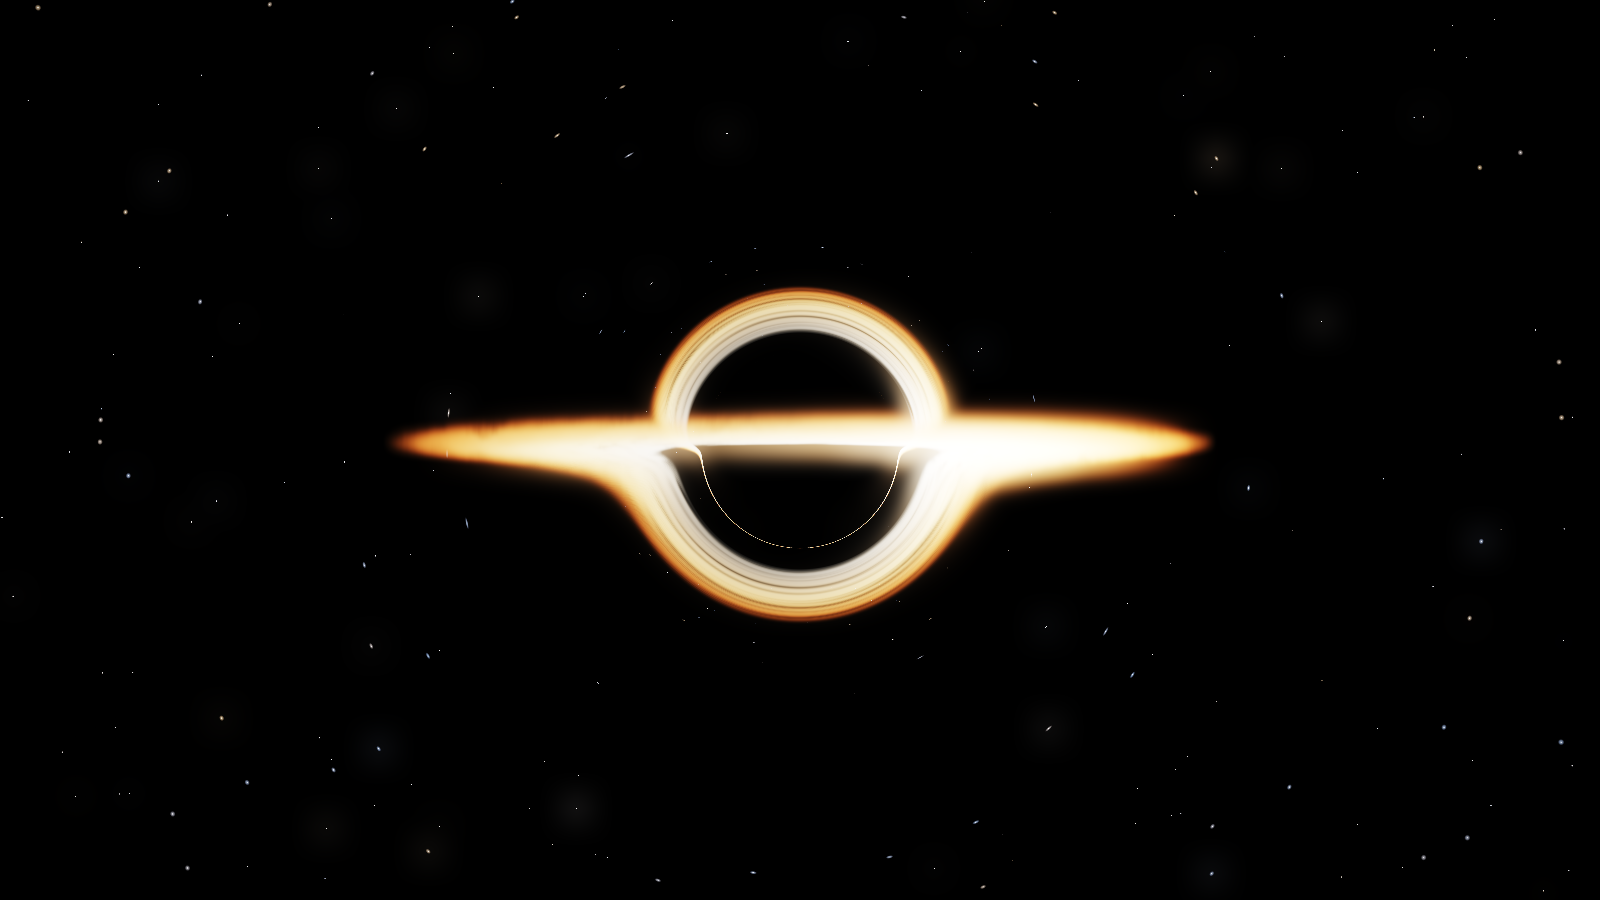
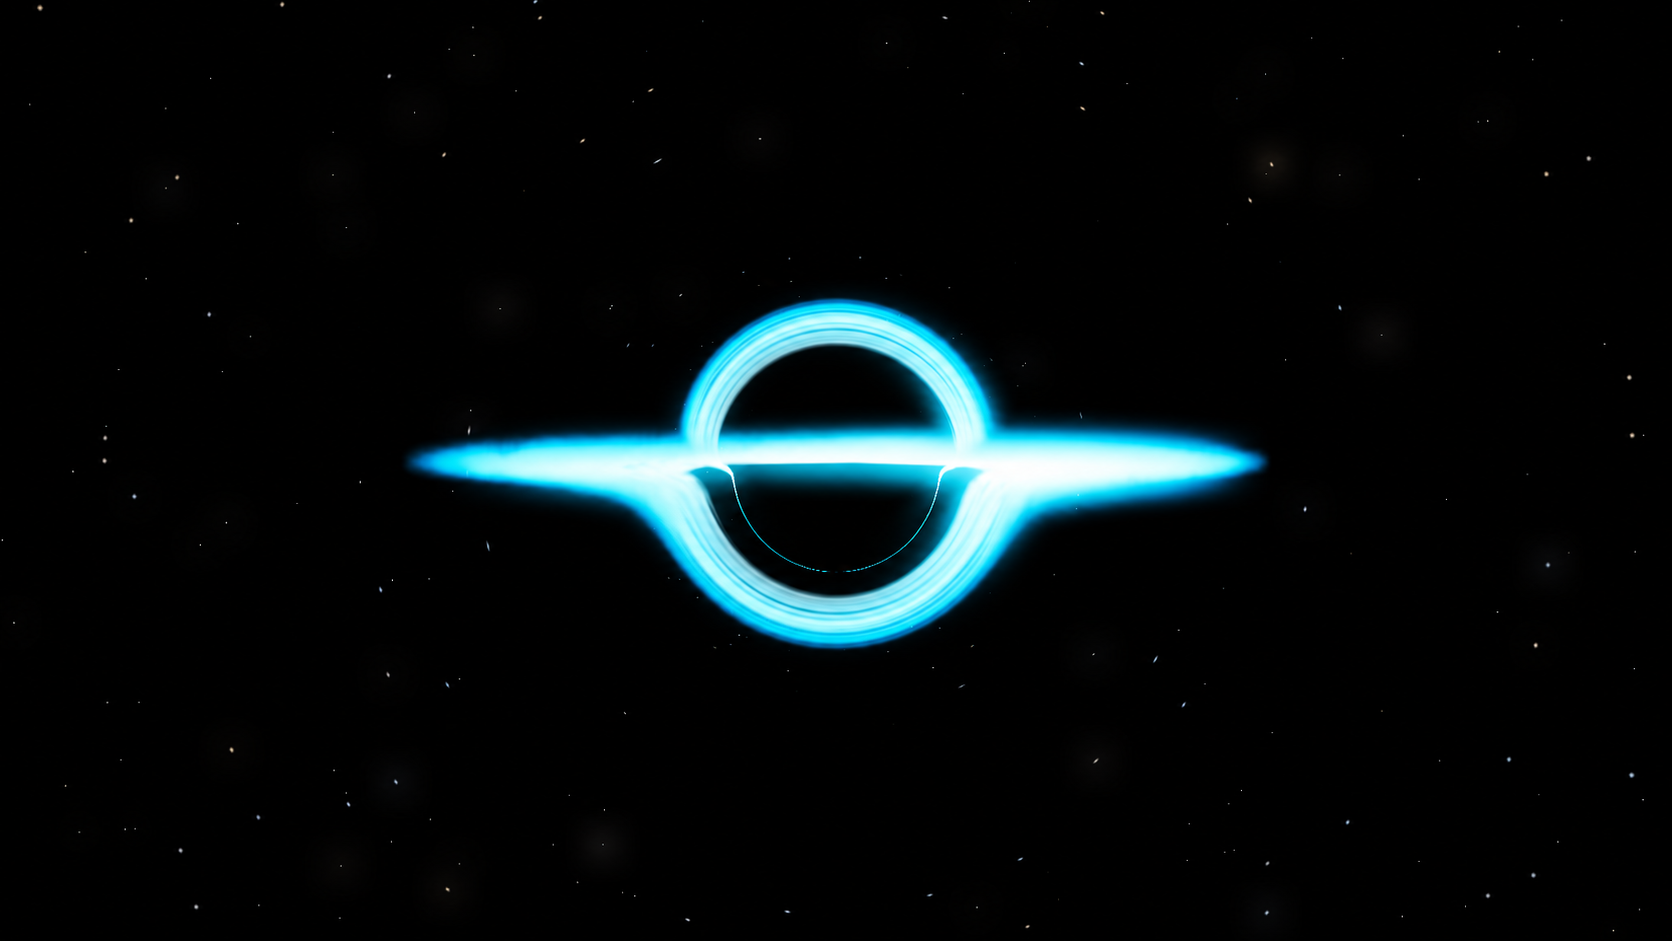
Recolor About black hole cyan

Changed region(s): [[0.2188, 0.3111, 0.7812, 0.7156]]

diff --git a/js/black-hole.js b/js/black-hole.js
@@ -1,4 +1,4 @@
-import { createRenderer } from '/js/black-hole-utils/renderer.js?v=20260922b';
+import { createRenderer } from '/js/black-hole-utils/renderer.js?v=20261022-cyan-black-hole';
 
 const renderers = [];
 
@@ -9,7 +9,7 @@ function smoothstep(edge0, edge1, value) {
 
 async function drawLocalFallback(canvas) {
   const image = new Image();
-  image.src = '/images/effects/black-hole-fallback.png';
+  image.src = '/images/effects/black-hole-fallback.png?v=20261022-cyan-black-hole';
   await image.decode();
   const width = Math.max(1, Math.round(canvas.clientWidth * Math.min(window.devicePixelRatio || 1, 1.6)));
   const height = Math.max(1, Math.round(canvas.clientHeight * Math.min(window.devicePixelRatio || 1, 1.6)));

diff --git a/about/index.html b/about/index.html
@@ -1266,7 +1266,7 @@
         <script src="/js/index.js?v=20261022-about-contact-mobile-labels" defer></script>
         <script src="/js/interactive-globe.js" defer></script>
         <script src="/js/about-effects.js" defer></script>
-        <script type="module" src="/js/black-hole.js?v=20260922b"></script>
+        <script type="module" src="/js/black-hole.js?v=20261022-cyan-black-hole"></script>
         <script id="skylet-widget-script" src="/js/skylet-widget.js?v=20261002desktop6" defer></script>
 <footer class="footer-minimal footer-split footer-about">
     <div class="footer-container">

diff --git a/es/sobre/index.html b/es/sobre/index.html
@@ -1221,7 +1221,7 @@
         <script src="/js/index.js?v=20261022-about-contact-mobile-labels" defer></script>
         <script src="/js/interactive-globe.js" defer></script>
         <script src="/js/about-effects.js" defer></script>
-        <script type="module" src="/js/black-hole.js?v=20260922b"></script>
+        <script type="module" src="/js/black-hole.js?v=20261022-cyan-black-hole"></script>
         <script id="skylet-widget-script" src="/js/skylet-widget.js?v=20261002desktop6" defer></script>
 <footer class="footer-minimal footer-split footer-about">
     <div class="footer-container">

diff --git a/pt/sobre/index.html b/pt/sobre/index.html
@@ -1221,7 +1221,7 @@
         <script src="/js/index.js?v=20261022-about-contact-mobile-labels" defer></script>
         <script src="/js/interactive-globe.js" defer></script>
         <script src="/js/about-effects.js" defer></script>
-        <script type="module" src="/js/black-hole.js?v=20260922b"></script>
+        <script type="module" src="/js/black-hole.js?v=20261022-cyan-black-hole"></script>
         <script id="skylet-widget-script" src="/js/skylet-widget.js?v=20261002desktop6" defer></script>
 <footer class="footer-minimal footer-split footer-about">
     <div class="footer-container">

diff --git a/js/black-hole-utils/renderer.js b/js/black-hole-utils/renderer.js
@@ -1,5 +1,5 @@
 const SHADER_ROOT = '/js/black-hole-utils/shaders/';
-const ASSET_VERSION = '20260922b';
+const ASSET_VERSION = '20261022-cyan-black-hole';
 const CLEAR = { r: 0, g: 0, b: 0, a: 1 };
 const BLURS = [
   { direction: [1, 0], radius: 1 },
